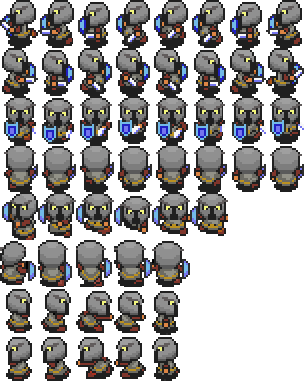
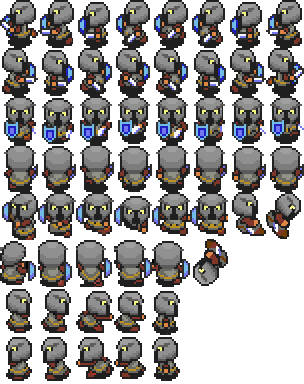
Stamina

Changed region(s): [[0.7401, 0.5, 1.0, 0.625], [0.6217, 0.625, 0.7697, 0.75]]

diff --git a/plantilla-juego/src/js/player.js b/plantilla-juego/src/js/player.js
@@ -17,6 +17,7 @@ function Player(game,speed,x,y,spritename,cursors, sword, spriteweapon)
     this.rolling = false;
     this.knockForce = 500;
     this.knockback = false;
+    this.stamina = 100;
   }
 
   Player.prototype = Object.create(Character.prototype);
@@ -37,6 +38,7 @@ function Player(game,speed,x,y,spritename,cursors, sword, spriteweapon)
     this.animations.add('attackup', [40,41,42,43,44],5,false);
     this.animations.add('attackright', [48,49,50,51,52],5,false);
     this.animations.add('attackleft', [56,57,58,59,60],5,false);
+    this.animations.add('rollleft', [38,39,45],false);
     this.body.setSize(30, 35, 6, 10);
     this.anchor.setTo(0.5, 0.5);
 
@@ -60,31 +62,36 @@ function Player(game,speed,x,y,spritename,cursors, sword, spriteweapon)
     }
   Player.prototype.roll = function()
   {
-    if (this.body.velocity.x != 0 || this.body.velocity.y != 0)
+    if (this.stamina >= 35)
     {
-      switch(this.direction)
+      if (this.body.velocity.x != 0 || this.body.velocity.y != 0)
       {
-        case 0:
-          this.body.velocity.y = 500;
-          this.body.velocity.x = 0;
-          break;
-        case 1:
-          this.body.velocity.y = 0;
-          this.body.velocity.x = -500;
-          break;
-        case 2:
-          this.body.velocity.y = -500;
-          this.body.velocity.x = 0;
-          break;
-        case 3:
-          this.body.velocity.y = 0;
-          this.body.velocity.x = 500;
-          break;
+        this.stamina = this.stamina - 50;
+        switch(this.direction)
+        {
+          case 0:
+            this.body.velocity.y = 500;
+            this.body.velocity.x = 0;
+            break;
+          case 1:
+            this.body.velocity.y = 0;
+            this.body.velocity.x = -500;
+            break;
+          case 2:
+            this.body.velocity.y = -500;
+            this.body.velocity.x = 0;
+            break;
+          case 3:
+            this.body.velocity.y = 0;
+            this.body.velocity.x = 500;
+            break;
+        }
+        this.animations.play('rollleft');
+        this.alpha = 0.5;
+        this.invincible = true;
+        this.rolling = true;
+        this.game.time.events.add(Phaser.Timer.SECOND * 0.2, Player.prototype.stopRoll , this);
       }
-      this.alpha = 0.5;
-      this.invincible = true;
-      this.rolling = true;
-      this.game.time.events.add(Phaser.Timer.SECOND * 0.2, Player.prototype.stopRoll , this);
     }
   }
   Player.prototype.stopRoll = function()
@@ -98,43 +105,54 @@ function Player(game,speed,x,y,spritename,cursors, sword, spriteweapon)
   Player.prototype.attack = function(){
     //We use a boolean var to check if the player is currently attacking to prevent a new attack mid animation.
     //(May not be necessary in your game.)
-    if (!this.attacking){
-        this.attacking = true;
-        this.moving = false;
-        this.sword.attacking = true;
-        this.sword.startAttack(this.direction);
-        switch(this.direction)
-        {
-          case 0:
-          this.animations.play('attackdown');
-          break;
-          case 1:
-          this.animations.play('attackleft');
-          break;
-          case 2:
-          this.animations.play('attackup');
-          break;
-          case 3:
-          this.animations.play('attackright');
-          break;
-        }
-        //Start the Timer object that will wait for 1 second and then will triger the inner function.
-        this.game.time.events.add(Phaser.Timer.SECOND * 1, function(){
-            this.animations.play('idle');//Returns the animation to "idle"
+    if (this.stamina >= 35)
+    {
+      if (!this.attacking){
+          this.stamina = this.stamina - 50;
+          this.attacking = true;
+          this.moving = false;
+          this.sword.attacking = true;
+          this.sword.startAttack(this.direction);
+          switch(this.direction)
+          {
+            case 0:
+            this.animations.play('attackdown');
+            break;
+            case 1:
+            this.animations.play('attackleft');
+            break;
+            case 2:
+            this.animations.play('attackup');
+            break;
+            case 3:
+            this.animations.play('attackright');
+            break;
+          }
+          this.game.time.events.add(Phaser.Timer.SECOND * 0.5, function(){
             this.attacking = false;//Returns the boolean var to "false"
-            this.moving = true;
             this.sword.attacking = false;
         }, this);
+          //Start the Timer object that will wait for 1 second and then will triger the inner function.
+          this.game.time.events.add(Phaser.Timer.SECOND * 1, function(){
+              this.animations.play('idle');//Returns the animation to "idle"
+              this.moving = true;
+          }, this);
+      }
     }
 }
 Player.prototype.col = function(enemy)
 {
+  this.salud -= 10;
   this.knock(enemy);
 }
   Player.prototype.update = function()
   {
   if (this.moving && !this.rolling)
   {
+    if (this.stamina < 100)
+    {
+      this.stamina = this.stamina + 0.2;
+    }
     if (this.attackButton.isDown)
         this.attack();
     else if (this.rollButton.isDown)

diff --git a/plantilla-juego/src/js/play_scene.js b/plantilla-juego/src/js/play_scene.js
@@ -28,19 +28,25 @@ var PlayScene = {
     
     
     this.cursors = this.game.input.keyboard.createCursorKeys();
+    //this.vidaconfigEnemy = {x: 50, y: 10};
+    //this.enemyhealth = new HealthBar(this.game, this.vidaconfigEnemy);
     this.enemy = new Enemy(this.game, 75, 700,1990,"esqueleto");
     this.sword = new Sword(this.game, -50, 0, 0, 'sword');
     this.sword.create();
     this.jugador = new Player(this.game,300,545,2835,"player",this.cursors, this.sword, "fireball");
     //this.rock = new RockRoll(this.game, 80, 500, 150, "rock", 0, 400);
-    this.jugador.create();
     this.enemy.create();
+    this.jugador.create();
     this.jugador.addChild(this.sword);
+    //this.enemy.addChild(this.enemyhealth);
     this.attackButton = this.game.input.keyboard.addKey(Phaser.KeyCode.Z);
     //this.rock.create();
     var barconfig = {x: 200, y: 50};
+    var staminaconfig = {x: 162, y: 75, width: 175, height: 15};
+    this.stamina = new HealthBar(this.game, staminaconfig);
     this.health = new HealthBar(this.game, barconfig);
     this.health.setFixedToCamera(true);
+    this.stamina.setFixedToCamera(true);
     this.enemies = this.game.add.group();
     this.enemies.add(this.enemy);
     this.camera.follow(this.jugador);
@@ -60,7 +66,8 @@ var PlayScene = {
     //this.physics.arcade.collide(this.rock, this.layer);
     if (this.jugador.invincible === false)
     this.physics.arcade.collide(this.jugador, this.enemy, this.collision, null, this);
-    this.physics.arcade.collide(this.enemy, this.jugador.sword, this.collision, null, this);
+    this.physics.arcade.overlap(this.enemy, this.jugador.sword, this.collision, null, this);
+    this.physics.arcade.collide(this.enemy, this.jugador.shoot, this.collision, null, this);
     //this.physics.arcade.overlap(this.jugador, this.rock, this.collision, null, this);
     //this.game.physics.arcade.overlap(this.jugador, this.enemy,this.jugador.playercol,null,this);
 
@@ -68,13 +75,14 @@ var PlayScene = {
     this.jugador.update();
     this.jugador.sword.update();
     this.enemy.update(this.jugador.x, this.jugador.y);
+    this.stamina.setPercent(this.jugador.stamina);
+    this.health.setPercent(this.jugador.salud);
     //this.sword.update(this.jugador);
     //this.rock.update(this.jugador.x, this.jugador.y);
   },
 
   collision : function (jugador, enemy) {
         jugador.col(enemy);
-        this.health.setPercent(this.jugador.salud - 10);
   }
 };
 module.exports = PlayScene;

diff --git a/plantilla-juego/src/js/Enemy.js b/plantilla-juego/src/js/Enemy.js
@@ -5,6 +5,8 @@ function Enemy(game, speed, x, y, spritename)
 {
     Character.call(this,game,speed,x,y,spritename);
     this.game = game;
+    this.salud = 100;
+    this.reviving = false;
 }
 Enemy.prototype = Object.create(Character.prototype);
 Enemy.prototype.constructor = Enemy;
@@ -20,6 +22,7 @@ Enemy.prototype.create = function()
     this.animations.add('runright', [6,7],2,true);
     this.animations.add('rundown', [0,1],2,true);
     this.animations.add('runup', [4,5],2,true);
+    this.animations.add('dead',[8],1,true);
 }
 Enemy.prototype.MoveTo = function(x, y){
 
@@ -63,17 +66,28 @@ Enemy.prototype.detectAnimation = function(x,y){
 }
 Enemy.prototype.update = function(playerx, playery)
 {
-    var dist = this.distanceToXY(playerx, playery);
-    if (dist < 200 && this.moving)
+    if (this.salud > 0)
     {
-    this.MoveTo(playerx, playery);
-    this.detectAnimation(playerx, playery);
+        this.reviving = false;
+        var dist = this.distanceToXY(playerx, playery);
+        if (dist < 200 && this.moving)
+        {
+        this.MoveTo(playerx, playery);
+        this.detectAnimation(playerx, playery);
+        }
+        else if (dist >= 200)
+        {
+            this.body.velocity.x = 0;
+            this.body.velocity.y = 0;
+            this.animations.play('idle');
+        }
     }
-    else if (dist >= 200)
+    else if (!this.reviving)
     {
-        this.body.velocity.x = 0;
-        this.body.velocity.y = 0;
-        this.animations.play('idle');
+        this.body.enable = false;
+        this.play('dead');
+        this.reviving = true;
+        this.game.time.events.add(Phaser.Timer.SECOND * 5, function() {this.body.enable = true;this.salud = 100;}, this);
     }
 }
 Enemy.prototype.col = function(sword)
@@ -81,6 +95,7 @@ Enemy.prototype.col = function(sword)
     if (sword.attacking)
     {
         this.knock(sword);
+        this.salud-=25;
     }
 }
 module.exports = Enemy;

diff --git a/plantilla-juego/src/js/main.js b/plantilla-juego/src/js/main.js
@@ -27,7 +27,7 @@ var PreloaderScene = {
     //imagenes
     this.game.load.image('logo', 'images/Fondo.png');
     this.game.load.image('titlesouls', 'images/TextoOldSouls.png');
-    this.game.load.spritesheet('esqueleto', 'images/skeletons2.png',32, 50, 8);
+    this.game.load.spritesheet('esqueleto', 'images/skeletons2.png',32, 50, 16);
     this.game.load.spritesheet('player', 'images/SoldadoSouls2.png', 38, 48, 64);
     this.game.load.spritesheet('sword', 'images/ProbandoEspada.png', 51, 57, 32);
     this.game.load.tilemap('map', 'images/MapaPrueba.csv');
@@ -35,7 +35,7 @@ var PreloaderScene = {
     this.game.load.image('tilesetCastillo', 'images/tilesCastillo.png');
     this.game.load.image('tileset', 'images/tileset.png');
     this.game.load.image('menu', 'images/Menu.png');
-    this.game.load.image('fireball', 'images/fireball.png');
+    this.game.load.spritesheet('fireball', 'images/fireball.png',35,22,4);
 
     //musica
     this.game.load.audio('musicmenu', 'music/mainmenu.mp3');

diff --git a/plantilla-juego/src/js/HealthBar.js b/plantilla-juego/src/js/HealthBar.js
@@ -26,7 +26,7 @@ HealthBar.prototype.mergeWithDefaultConfiguration = function(newConfig) {
             color: '#651828'
         },
         bar: {
-            color: '#FEFF03'
+            color: '#fb3b3b'
         },
         border: {
             color: "#000000",
